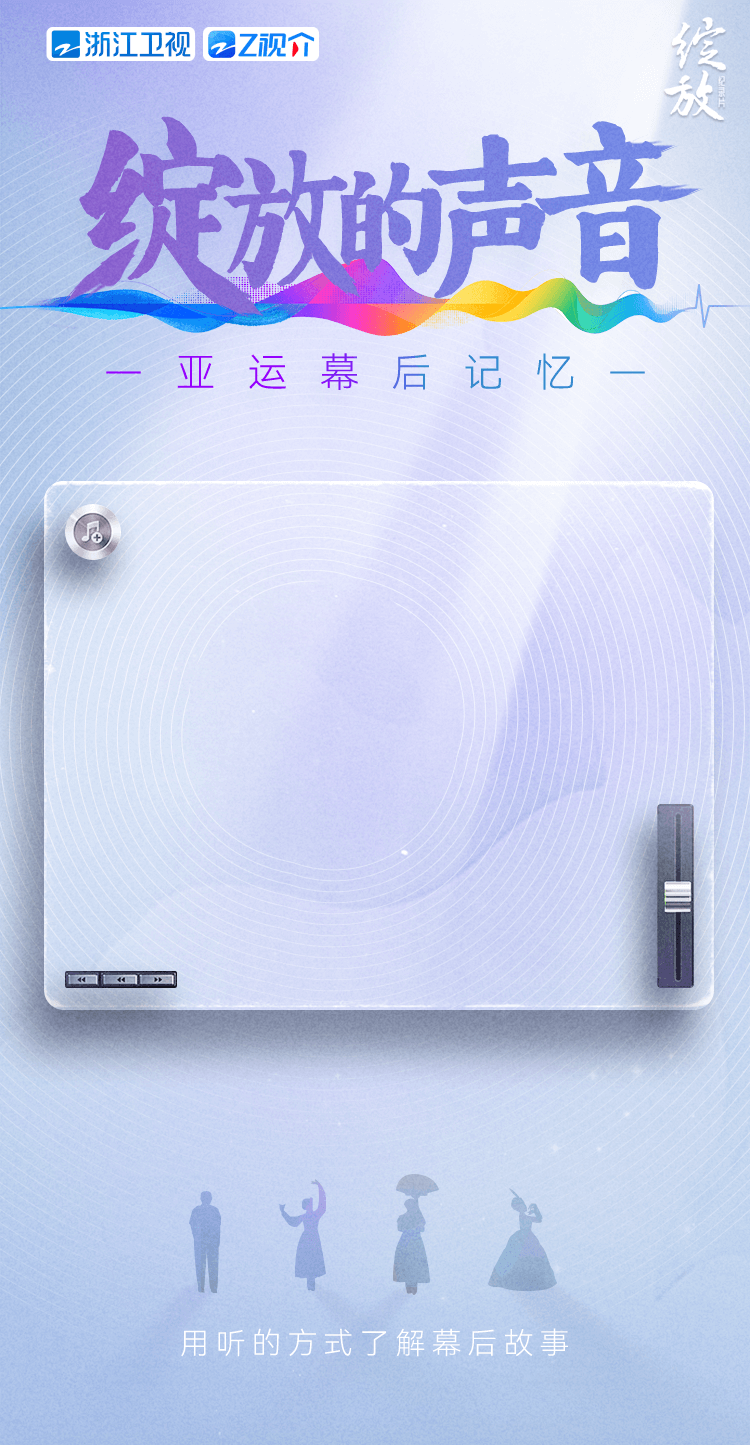
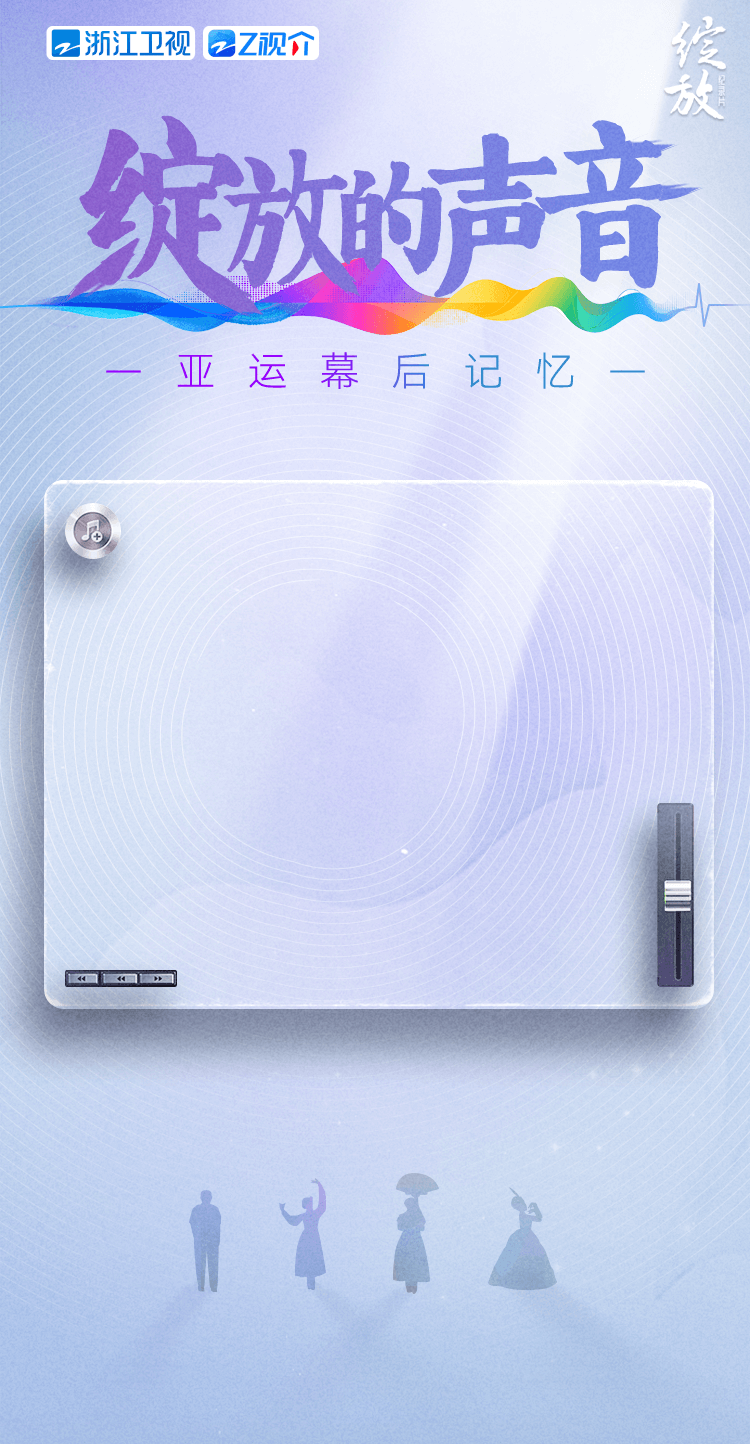
feat: 修改首页动效

diff --git a/src/views/index/components/firstPage.vue b/src/views/index/components/firstPage.vue
@@ -5,6 +5,7 @@
             <div id="canvas2"></div>
             <div id="canvas1"></div>
             <div v-if="showTip" class="tip"></div>
+            <div class="btm-t1">了解幕后故事</div>
             <div class="click-box" @click="beginAni"></div>
         </div>
         <div class="second-page" ref="canRef" @click="toSecongPage">
@@ -290,6 +291,14 @@ function onClickCloseIcon() {
     background-size: 750px 1447px;
     width: 750px;
     height: 1447px;
+    .btm-t1{
+        width: 100%;
+        text-align: center;
+        position: absolute;
+        bottom: 80px;
+        font-size: 29px;
+        color: #ffffff;
+    }
 }
 
 .tip {
